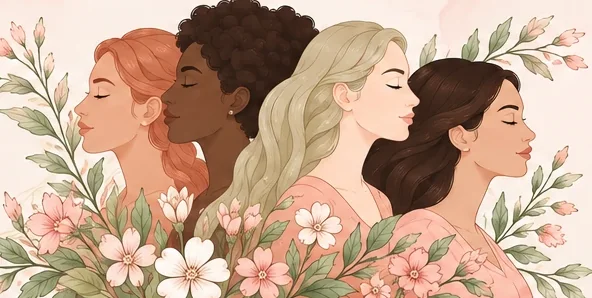
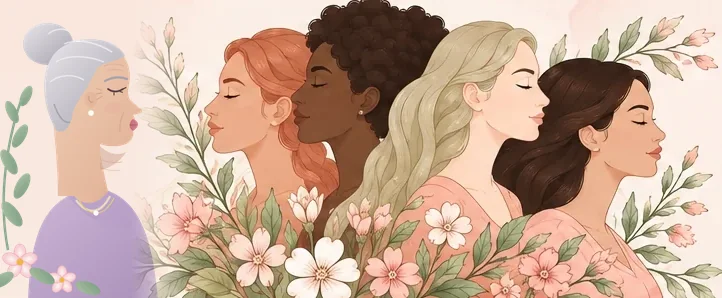
Tela inicial: quinta mulher (mais velha) na ilustração
Claude-Session: https://claude.ai/code/session_01P25v4rDXyqJdbQ4M3TYxbV

diff --git a/web/index.html b/web/index.html
@@ -64,7 +64,7 @@
         <p class="heroi-nota">Cada informação mostra a fonte e a data em que foi conferida.</p>
         <button type="button" class="btn-heroi" data-rolar="areas-inicio">Escolha uma área <span aria-hidden="true">↓</span></button>
       </div>
-      <div class="heroi-arte"><img src="img/heroi-mulheres.webp" width="592" height="298" alt="" decoding="async"></div>
+      <div class="heroi-arte"><img src="img/heroi-mulheres.webp" width="722" height="298" alt="" decoding="async"></div>
     </div>
 
     <section class="ia-caixa" id="ia-caixa" aria-labelledby="titulo-ia">

diff --git a/web/estilo.css b/web/estilo.css
@@ -113,7 +113,7 @@ h1[tabindex="-1"]:focus{outline:none}
 .lista-acesso a::after{content:"›";color:var(--pri);font-size:1.5rem;line-height:1}
 .lista-acesso a:hover{color:var(--pri-esc)}
 @media(min-width:760px){
-  .heroi{grid-template-columns:1.05fr .95fr;padding:2.2rem 0 0 2.2rem}
+  .heroi{grid-template-columns:.88fr 1.12fr;padding:2.2rem 0 0 2.2rem}
   .heroi-arte{margin:0}
   .heroi-arte img{max-width:none}
   .portas{grid-template-columns:repeat(4,minmax(0,1fr));gap:1rem}

diff --git a/docs/registro_decisoes_desenvolvimento.md b/docs/registro_decisoes_desenvolvimento.md
@@ -596,3 +596,8 @@ Nenhuma branch foi apagada nem alterada. O que **não** foi trazido para a base,
 - **Resultado honesto:** regras F1 65%, modelo F1 68%, regras + modelo F1 75% (validação cruzada). Em violência: regras 24% de recall, modelo 81%, juntos 86%. No teste independente (53 frases escritas para as regras), as regras vão melhor (100% contra 80%): é viés a favor delas. Limitações em `docs/ia/avaliacao_modelo_necessidades.md`.
 - **Privacidade:** nenhuma requisição externa (verificado no Chromium), nada gravado, texto apagado ao sair da tela e no "sair rápido". `ia.js` não pode usar rede nem armazenamento (teste).
 - **Rejeitado:** serviço externo de IA generativa lendo o texto da usuária (contraria a promessa de privacidade, e há risco para quem está em situação de violência).
+
+### Ilustração da tela inicial: quinta mulher, mais velha — 11/10/2026
+- **Pedido do autor:** a ilustração tinha quatro mulheres jovens; faltava uma mulher mais velha (o site atende mulheres de todas as idades e trata de aposentadoria e cuidado de idosos).
+- **Como foi feito:** não há gerador de imagens aqui, então a quinta mulher (cabelo grisalho em coque, rugas leves, brinco de pérola, xale lilás) foi **desenhada em SVG** (fonte em `docs/img/mulher-idosa-fonte.svg`), a imagem foi alargada à esquerda (592 para 722 px) e a emenda com a ilustração original foi esmaecida. O arquivo `web/img/heroi-mulheres.webp` tem 38 KB. O traço da nova figura é mais simples que o da pintura original: se o autor preferir, pode gerar uma versão única na ferramenta que fez a original e trocar o arquivo (as dimensões em `index.html` devem acompanhar).
+- Verificado em 390 e 1280 px: sem rolagem horizontal e sem erros. No computador a coluna da imagem ganhou espaço (`.88fr 1.12fr`) para as figuras não encolherem.
